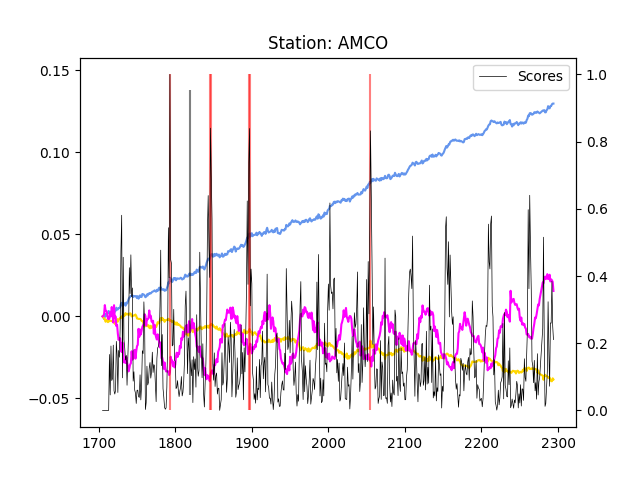
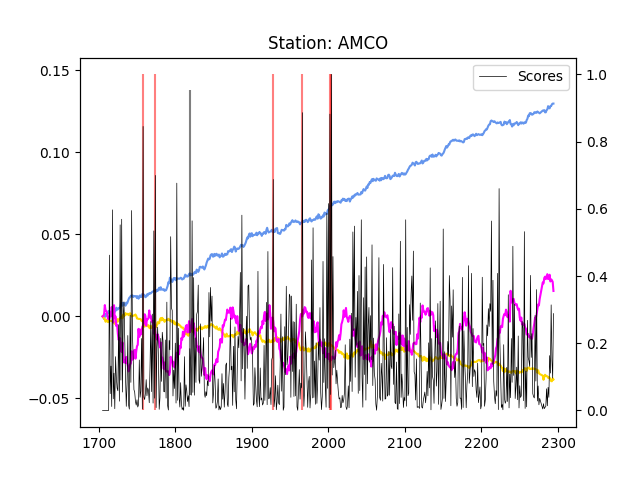
Station graphs and new code to process stations

Changed region(s): [[0.1562, 0.1562, 0.875, 0.875]]

diff --git a/station_trainer/station_trainer.py b/station_trainer/station_trainer.py
@@ -5,6 +5,7 @@ import sklearn
 import pandas as pd
 import numpy as np
 from sklearn.preprocessing import MinMaxScaler
+import json
 
 # Importing our custom TimesNet with Convergence Early Stop
 import sys
@@ -16,10 +17,11 @@ class StationTrainer():
         self.station = station
         self.use_du = use_du
 
-        # Defining station data filepaths
+        # Defining station filepaths
         self.gnss_data_path = f'dataset/{station}/{station}_NEU_train.csv'
         self.gnss_label_path = f'dataset/{station}/{station}_NEU_test_label.csv'
         self.png_path = f'dataset/{station}/{station}_trained.png'
+        self.metrics_path = f'dataset/{station}/{station}_metrics.txt'
 
         self.gnss_data, self.gnss_label = self.get_data(self.gnss_data_path, self.gnss_label_path)
         
@@ -61,7 +63,7 @@ class StationTrainer():
     def train(self) -> tuple[np.array, np.array, np.array]:
         # Return None in case we don't have data
         if self.gnss_data.empty or  self.gnss_label.empty:
-            return None, None, None
+            return None, None, None, None
         
         # Getting Training parameters
         params = self.get_params()
@@ -101,36 +103,67 @@ class StationTrainer():
         print(f"Recall {recall}")
         print(f"F1 score {f1}")
 
-        return scores, truth, pred
+        metrics = {
+            'Type': 'Station',
+            'Accuracy':accuracy,
+            'Precision':np.array2string(precision, precision=2, separator=', '),
+            'Recall':np.array2string(recall, precision=2, separator=', '),
+            'F1':f1,
+        }
+
+        return scores, truth, pred, metrics
 
     def plot_experiment(self, scores:np.array, pred:np.array) -> None:
         plt.clf()
-        #plotting data
-        plt.plot(self.gnss_data.gps_week, self.gnss_data['dn(m)'], color = 'cornflowerblue', label = 'Series DN')
-        plt.plot(self.gnss_data.gps_week, self.gnss_data['de(m)'], color = 'gold', label = 'Series DE')
-        plt.plot(self.gnss_data.gps_week, self.gnss_data['du(m)'], color = 'magenta', label = 'Series DU')
-        
+
+        # Create the figure and primary y-axis
+        fig, ax1 = plt.subplots()
+
+        # Plot GNSS data on the primary y-axis
+        lines1 = ax1.plot(self.gnss_data.gps_week, self.gnss_data['dn(m)'], color = 'cornflowerblue', label = 'Series DN')
+        lines2 = ax1.plot(self.gnss_data.gps_week, self.gnss_data['de(m)'], color = 'gold', label = 'Series DE')
+        lines3 = ax1.plot(self.gnss_data.gps_week, self.gnss_data['du(m)'], color = 'magenta', label = 'Series DU')
+
         self.gnss_label['pred'] = pred
         # Plotting anomalies
         anomalies = self.gnss_label[self.gnss_label.label == 1]
-        plt.vlines(anomalies.gps_week, ymin=plt.ylim()[0], ymax=plt.ylim()[1], color = 'black', alpha=0.5, label='Descontinuity')
+        ax1.vlines(anomalies.gps_week, ymin=plt.ylim()[0], ymax=plt.ylim()[1], color = 'black', alpha=0.5, label='Descontinuity')
 
         # Plotting predictions
         predictions = self.gnss_label[self.gnss_label.pred == 1]
-        plt.vlines(predictions.gps_week, ymin=plt.ylim()[0], ymax=plt.ylim()[1], color = 'red', alpha=0.5, label='Prediction')
+        ax1.vlines(predictions.gps_week, ymin=plt.ylim()[0], ymax=plt.ylim()[1], color = 'red', alpha=0.5, label='Prediction')
 
-        # Plotting scores
-        ax2 = plt.twinx()
-        ax2.plot(self.gnss_data.gps_week, scores, color='black', linewidth=0.5, label='Scores')
+        # Create the secondary y-axis (twinx)
+        ax2 = ax1.twinx()
 
-        plt.legend()
+        # Plot data3 on the secondary y-axis
+        lines4 = ax2.plot(self.gnss_data.gps_week, scores, color='black', linewidth=0.5, label='Scores')
+
+        # Combine lines from both axes for legend
+        all_lines = lines1 + lines2 + lines3 + lines4
+
+        # Set labels for axes
+        ax1.set_xlabel('GPS Week')
+        ax1.set_ylabel('Deviation in meters (m)')
+        ax2.set_ylabel('Normalized Score [0-1]')
+
+        # Add legend using all lines
+        plt.legend(all_lines, [l.get_label() for l in all_lines])
+
+        # Save the plot
         plt.title(f'Station: {self.station}', loc='center')
         plt.savefig(self.png_path, format='png')
+
+    def save_metrics(self, metrics):
+        with open(self.metrics_path, 'w') as result:
+            json.dump(metrics, result)        
 
 if __name__ == '__main__':
     station = 'BRAZ'
     station_trainer = StationTrainer(station=station, use_du=False)
 
-    scores, truth, pred = station_trainer.train()
+    scores, truth, pred, metrics = station_trainer.train()
 
     station_trainer.plot_experiment(scores=scores, pred=pred)
+
+    station_trainer.save_metrics(metrics=metrics)

diff --git a/process_stations/process_stations.py b/process_stations/process_stations.py
@@ -20,7 +20,6 @@ def read_stations_file(stations_file:str) -> list:
         return []
         
 def process_stations(stations:list):
-    #stations = ['BRAZ', 'CHEC']
     total_truth = []
     total_pred = []
     for station in stations:
@@ -29,14 +28,19 @@ def process_stations(stations:list):
 
         # Actual training
         try:
-            scores, truth, pred = station_trainer.train()
+            scores, truth, pred, metrics = station_trainer.train()
         except:
             continue
+
+        # Gathering station truth and pred for stacking
         total_truth.append(truth)
         total_pred.append(pred)
 
         # Ploting the graph in the dataset/{station} folder
         station_trainer.plot_experiment(scores=scores, pred=pred)
+
+        # Saving Station metrics
+        station_trainer.save_metrics(metrics=metrics)
 
     # Stacking truth and pred
     stacked_truth = np.hstack([*total_truth])
@@ -54,16 +58,14 @@ def process_stations(stations:list):
     metrics = {
         'Type': 'Global',
         'Accuracy':accuracy,
-        'Precision':np.array2string(precision, precision=2, separator=', '),
-        'Recall':np.array2string(recall, precision=2, separator=', '),
+        'Precision':np.array2string(precision, precision=2, separator=','),
+        'Recall':np.array2string(recall, precision=2, separator=','),
         'F1':f1,
     }
-
-    with open('dataset/global_metrics.txt', 'w') as result:
-        json.dump(metrics, result)
 
 if __name__ == '__main__':
     stations_filepath = 'dataset/brazil_stations.txt'
     stations = read_stations_file(stations_filepath)
+    stations = ['BRAZ', 'CHEC']
 
     process_stations(stations=stations)
